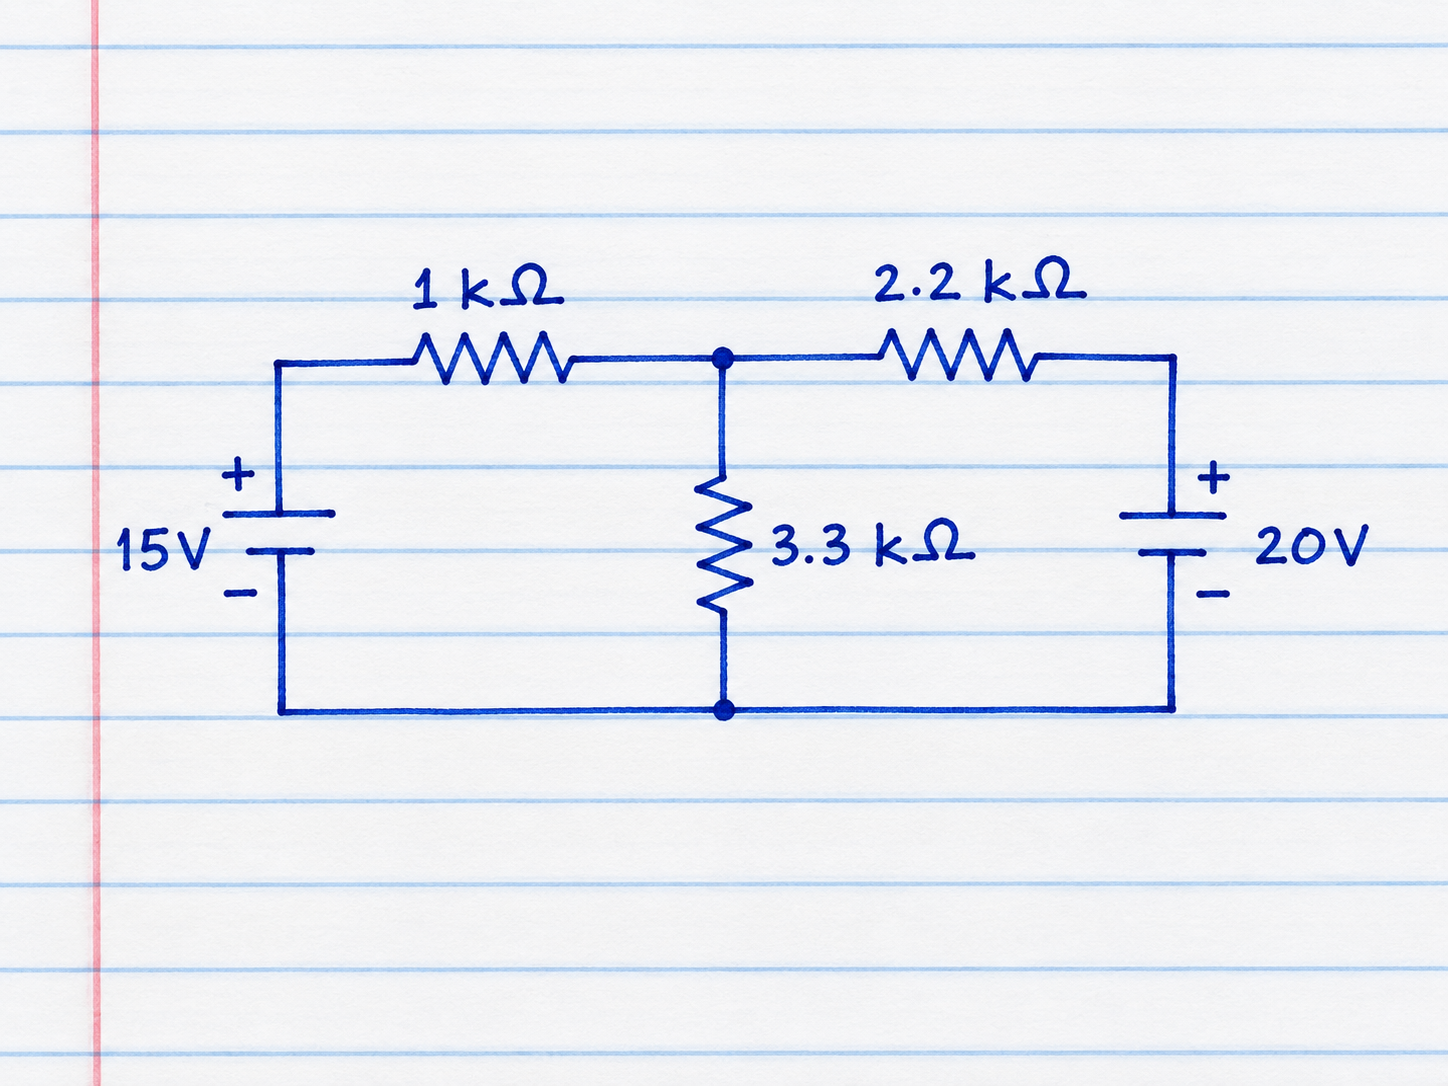
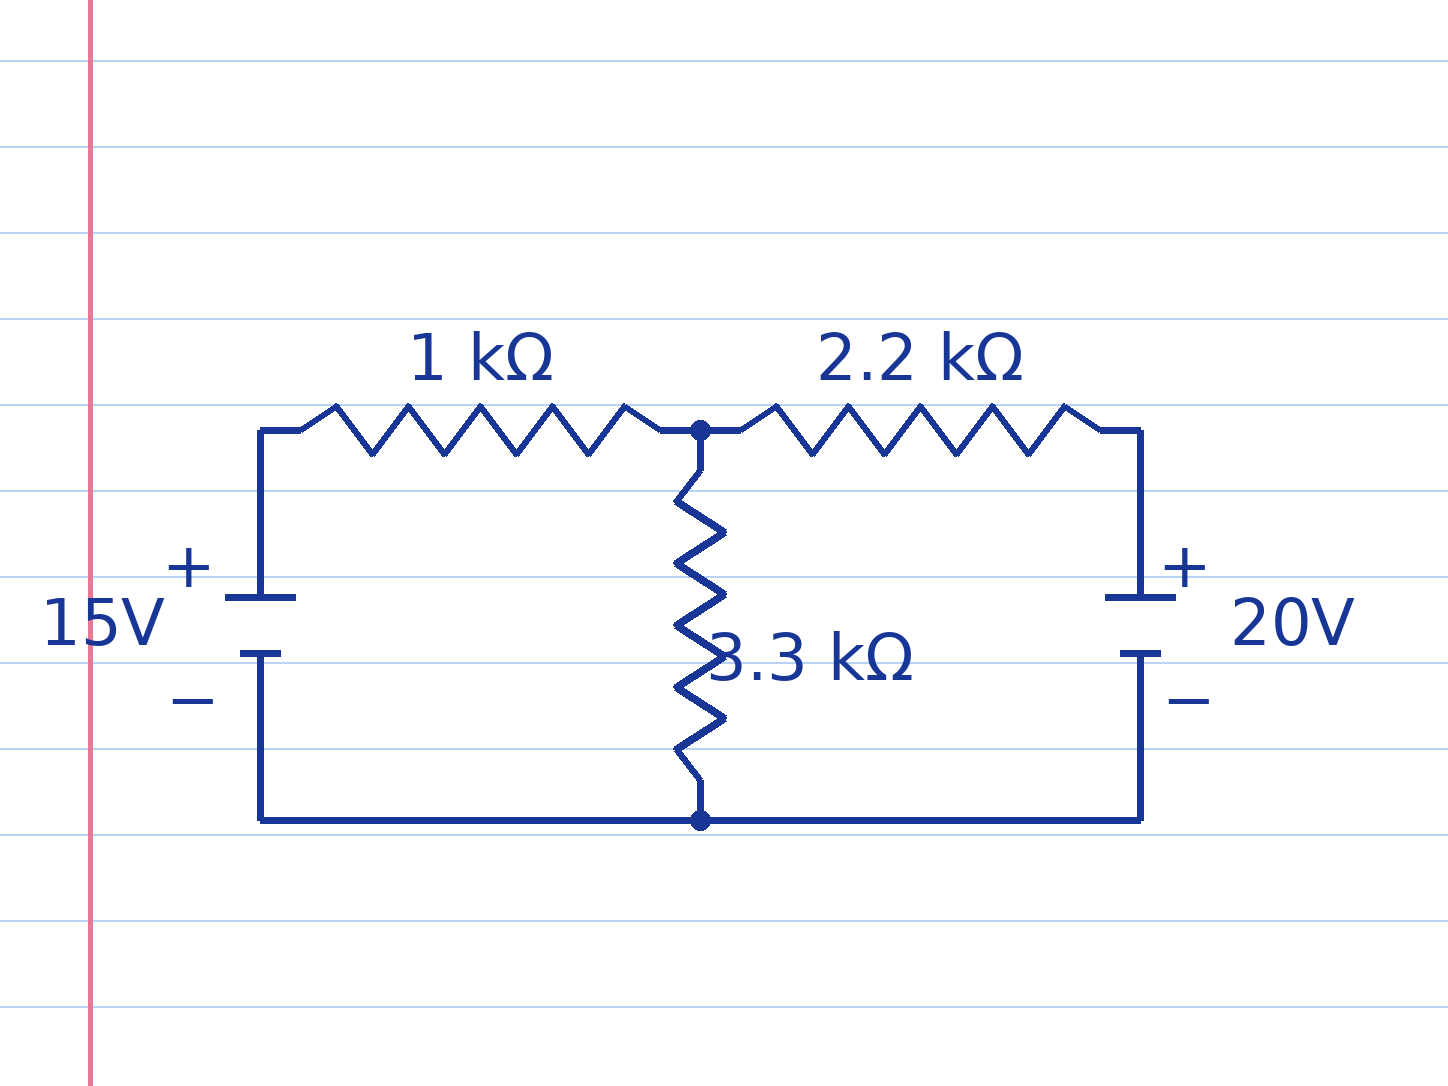
pankusdesk-bee-2026-09-09-superposition-fix-cumulative-delta

Changed region(s): [[0.0, 0.0, 1.0, 1.0]]

diff --git a/college/1-1/basic-electrical-engineering/kb/class-log/2026-09-09/raw.md b/college/1-1/basic-electrical-engineering/kb/class-log/2026-09-09/raw.md
@@ -13,10 +13,12 @@ In a linear network containing two or more sources, the response in any element 
 - Ideal current source internal resistance: \(\infty\).
 - Ideal voltage source internal resistance: \(0\).
 
-The page contains the original two-source example and a second sketch headed “When 15 V is acting alone”.
+The first redraw shows the original two-source circuit. The second redraw shows the case when only the 15 V source acts.
+
+Note: In the notebook sequence, the right-hand source in the original sketch is unlabeled, but the next sketch clearly says “When 20 V is acting alone”. To keep the three Superposition sketches consistent with each other and with the theorem, the redraw treats the original second source as 20 V. In the source-isolation sketches, only one source remains active at a time and the other voltage source is suppressed by a short circuit.
 
 \[
-15-V=\frac{V}{3.3}+\frac{V}{2.2}
+15-V=rac{V}{3.3}+rac{V}{2.2}
 \]
 
 ## Page 2 — Superposition example continued and Thevenin’s theorem
@@ -24,12 +26,25 @@ The page contains the original two-source example and a second sketch headed “
 ### When 20 V is acting alone
 
 \[
-\frac{20-V}{2.2}=V+\frac{V}{3.3}
+rac{20-V}{2.2}=V+rac{V}{3.3}
 \]
 
 \[
-V=5.17\text{ V},\qquad I'=1.56\text{ mA}
+V=5.17	ext{ V},\qquad I'=1.56	ext{ mA}
 \]
+
+### Superposition example — explanation
+
+- Superposition theorem is used when a linear circuit has more than one independent source.
+- Original circuit: keep both sources active.
+- 15 V acting alone: keep the 15 V source and suppress the 20 V source by a short circuit.
+- 20 V acting alone: keep the 20 V source and suppress the 15 V source by a short circuit.
+- Final response: add the separate contributions algebraically with the correct sign.
+
+The corrected redraws are meant to make the class-note working internally consistent. The equations match the source-isolation sketches:
+
+- For 15 V acting alone: \((15-V)/1 = V/3.3 + V/2.2\), written in the notebook as \(15-V=V/3.3+V/2.2\).
+- For 20 V acting alone: \((20-V)/2.2 = V/1 + V/3.3\), written in the notebook as \((20-V)/2.2 = V + V/3.3\).
 
 ### Thevenin’s theorem
 
@@ -44,7 +59,7 @@ The page sketches the circuit used to obtain \(R_{th}\), followed by the Theveni
 A further two-source circuit is written with node voltage \(V\):
 
 \[
-\frac{18-V}{1}+\frac{22-V}{2.2}=\frac{V}{3.3}
+rac{18-V}{1}+rac{22-V}{2.2}=rac{V}{3.3}
 \]
 
 ## Page 4 — Corrected copy and source-reduction sketch
@@ -52,13 +67,13 @@ A further two-source circuit is written with node voltage \(V\):
 The corrected copy of the two-source circuit repeats:
 
 \[
-\frac{18-V}{1}+\frac{22-V}{2.2}=\frac{V}{3.3}
+rac{18-V}{1}+rac{22-V}{2.2}=rac{V}{3.3}
 \]
 
 The written results are:
 
 \[
-V=10.24\text{ V},\qquad I=3.10\text{ mA}
+V=10.24	ext{ V},\qquad I=3.10	ext{ mA}
 \]
 
 The lower part of the page contains another source-reduction/checking sketch. The calculations underneath are crossed through and are not transcribed as final working.

diff --git a/college/1-1/basic-electrical-engineering/kb/audits/unit-1-2026-09-11-superposition-class-note-repair.md b/college/1-1/basic-electrical-engineering/kb/audits/unit-1-2026-09-11-superposition-class-note-repair.md
@@ -1,0 +1,6 @@
+# Unit 1 class-note repair — 11 September 2026
+
+- Repaired the **9 September 2026** Superposition theorem integration in the BEE class log.
+- Replaced the three Superposition figure assets `c1.png`, `c2.png`, and `c3.png` with internally consistent NRS redraws.
+- In the repaired redraw set, the original circuit is shown with **15 V** on the left and **20 V** on the right; the “15 V acting alone” sketch suppresses the 20 V source by a short circuit; and the “20 V acting alone” sketch suppresses the 15 V source by a short circuit.
+- Added a class-log accordion block labelled **Understand the superposition example** to explain the theorem, the three redraws, the reason for inferring the 20 V source, and how the written equations match the sketches.
